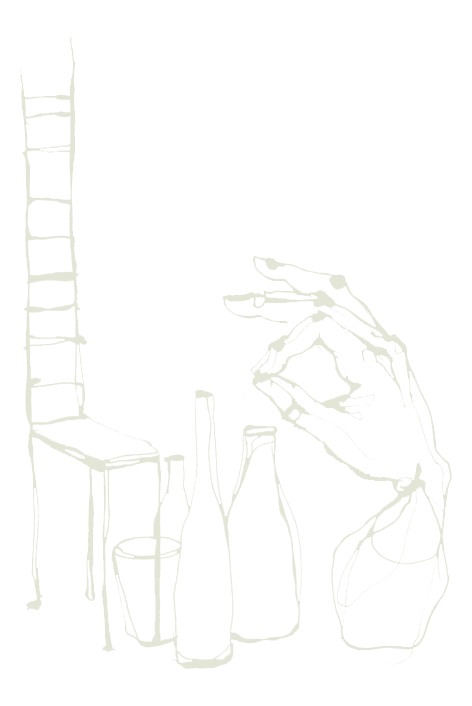
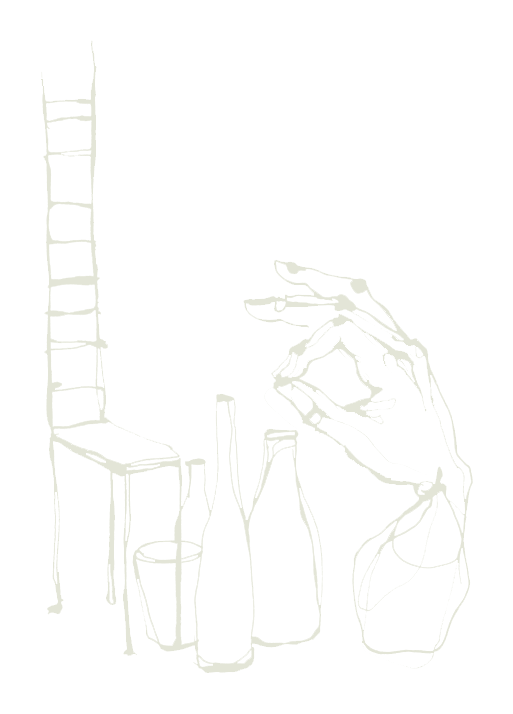
Carte espace membre: vignette en conteneur flex centré (dessin Sylwia centré)

diff --git a/styles/home.css b/styles/home.css
@@ -5,10 +5,10 @@ h1,h2,h3,.display{font-family:var(--display);font-weight:400;line-height:1.15}
 
 /* NAV */
 header{position:sticky;top:0;z-index:50;background:rgba(227,229,215,.93);backdrop-filter:blur(10px);border-bottom:1px solid var(--line)}
-.nav{display:flex;align-items:center;gap:12px;padding:12px 0}
-.nav-left{display:flex;justify-content:flex-start;flex:0 0 auto}
-.nav-right{display:flex;justify-content:flex-end;align-items:center;gap:10px;flex:0 0 auto}
-.nav .logo{flex:1 1 auto;display:flex;justify-content:center;text-align:center;padding:0 8px;min-width:0}
+.nav{display:flex;align-items:center;gap:12px;padding:12px 0;position:relative}
+.nav-left{display:flex;justify-content:flex-start;flex:0 0 auto;position:relative;z-index:1}
+.nav-right{display:flex;justify-content:flex-end;align-items:center;gap:10px;flex:0 0 auto;margin-left:auto;position:relative;z-index:1}
+.nav .logo{position:absolute;left:50%;transform:translateX(-50%);display:flex;justify-content:center;text-align:center;padding:0 8px;min-width:0}
 .nav .logo img{height:40px;width:auto;max-width:100%;object-fit:contain;display:block}
 .nav a{color:var(--ink);text-decoration:none;font-size:12px;letter-spacing:.09em;text-transform:uppercase;transition:color .2s;white-space:nowrap}
 .nav a:hover{color:var(--accent)}
@@ -84,7 +84,8 @@ section{padding:clamp(48px,7vw,84px) 0}
 .art-stack img{width:100%;height:auto;display:block;object-fit:cover}
 .art-stack .drawing{max-width:230px;margin:0 auto;opacity:.9}
 .card .thumb{width:100%;aspect-ratio:4/3;object-fit:cover;display:block;margin:-34px -30px 22px;width:calc(100% + 60px);max-width:none}
-.card .thumb.drawing{object-fit:contain;background:var(--accent);padding:22px;width:100%;margin:-34px -30px 22px}
+.card .thumb.drawing{width:calc(100% + 60px);margin:-34px -30px 22px;background:var(--accent);padding:30px 34px;display:flex;align-items:center;justify-content:center;min-height:180px}
+.card .thumb.drawing img{width:auto;height:auto;max-height:230px;max-width:100%}
 .card.member{background:var(--accent);border-color:var(--accent)}
 .card.member .k{color:var(--ochre)}
 .card.member h3{color:var(--bg)}
@@ -195,7 +196,6 @@ footer .copy{margin-top:28px;font-size:11px;letter-spacing:.22em;text-transform:
   /* Connexion + Panier are non-functional placeholders ("À venir"); hide them
      on phones so the Réserver CTA + logo + burger fit without overflow. */
   .auth,.cart{display:none}
-  .nav .logo{justify-content:center}
   header .wrap.nav{padding-left:16px;padding-right:16px}
 }
 @media(max-width:360px){

diff --git a/app/(fr)/page.tsx b/app/(fr)/page.tsx
@@ -108,7 +108,13 @@ export default function Home() {
           <div className="grid">
             {CARDS.map((c) => (
               <article className={c.drawing ? "card member" : "card"} key={c.href}>
-                <Image className={c.drawing ? "thumb drawing" : "thumb"} src={c.img} alt={c.title} />
+                {c.drawing ? (
+                  <div className="thumb drawing">
+                    <Image src={c.img} alt={c.title} style={{ width: "auto", height: "auto", maxHeight: "220px" }} />
+                  </div>
+                ) : (
+                  <Image className="thumb" src={c.img} alt={c.title} />
+                )}
                 <p className="k">{c.tag}</p>
                 <h3>{c.title}</h3>
                 <p>{c.text}</p>

diff --git a/app/(en)/en/page.tsx b/app/(en)/en/page.tsx
@@ -76,7 +76,13 @@ export default function Home() {
           <div className="grid">
             {CARDS.map((c) => (
               <article className={c.drawing ? "card member" : "card"} key={c.href}>
-                <Image className={c.drawing ? "thumb drawing" : "thumb"} src={c.img} alt={c.title} />
+                {c.drawing ? (
+                  <div className="thumb drawing">
+                    <Image src={c.img} alt={c.title} style={{ width: "auto", height: "auto", maxHeight: "220px" }} />
+                  </div>
+                ) : (
+                  <Image className="thumb" src={c.img} alt={c.title} />
+                )}
                 <p className="k">{c.tag}</p>
                 <h3>{c.title}</h3>
                 <p>{c.text}</p>
